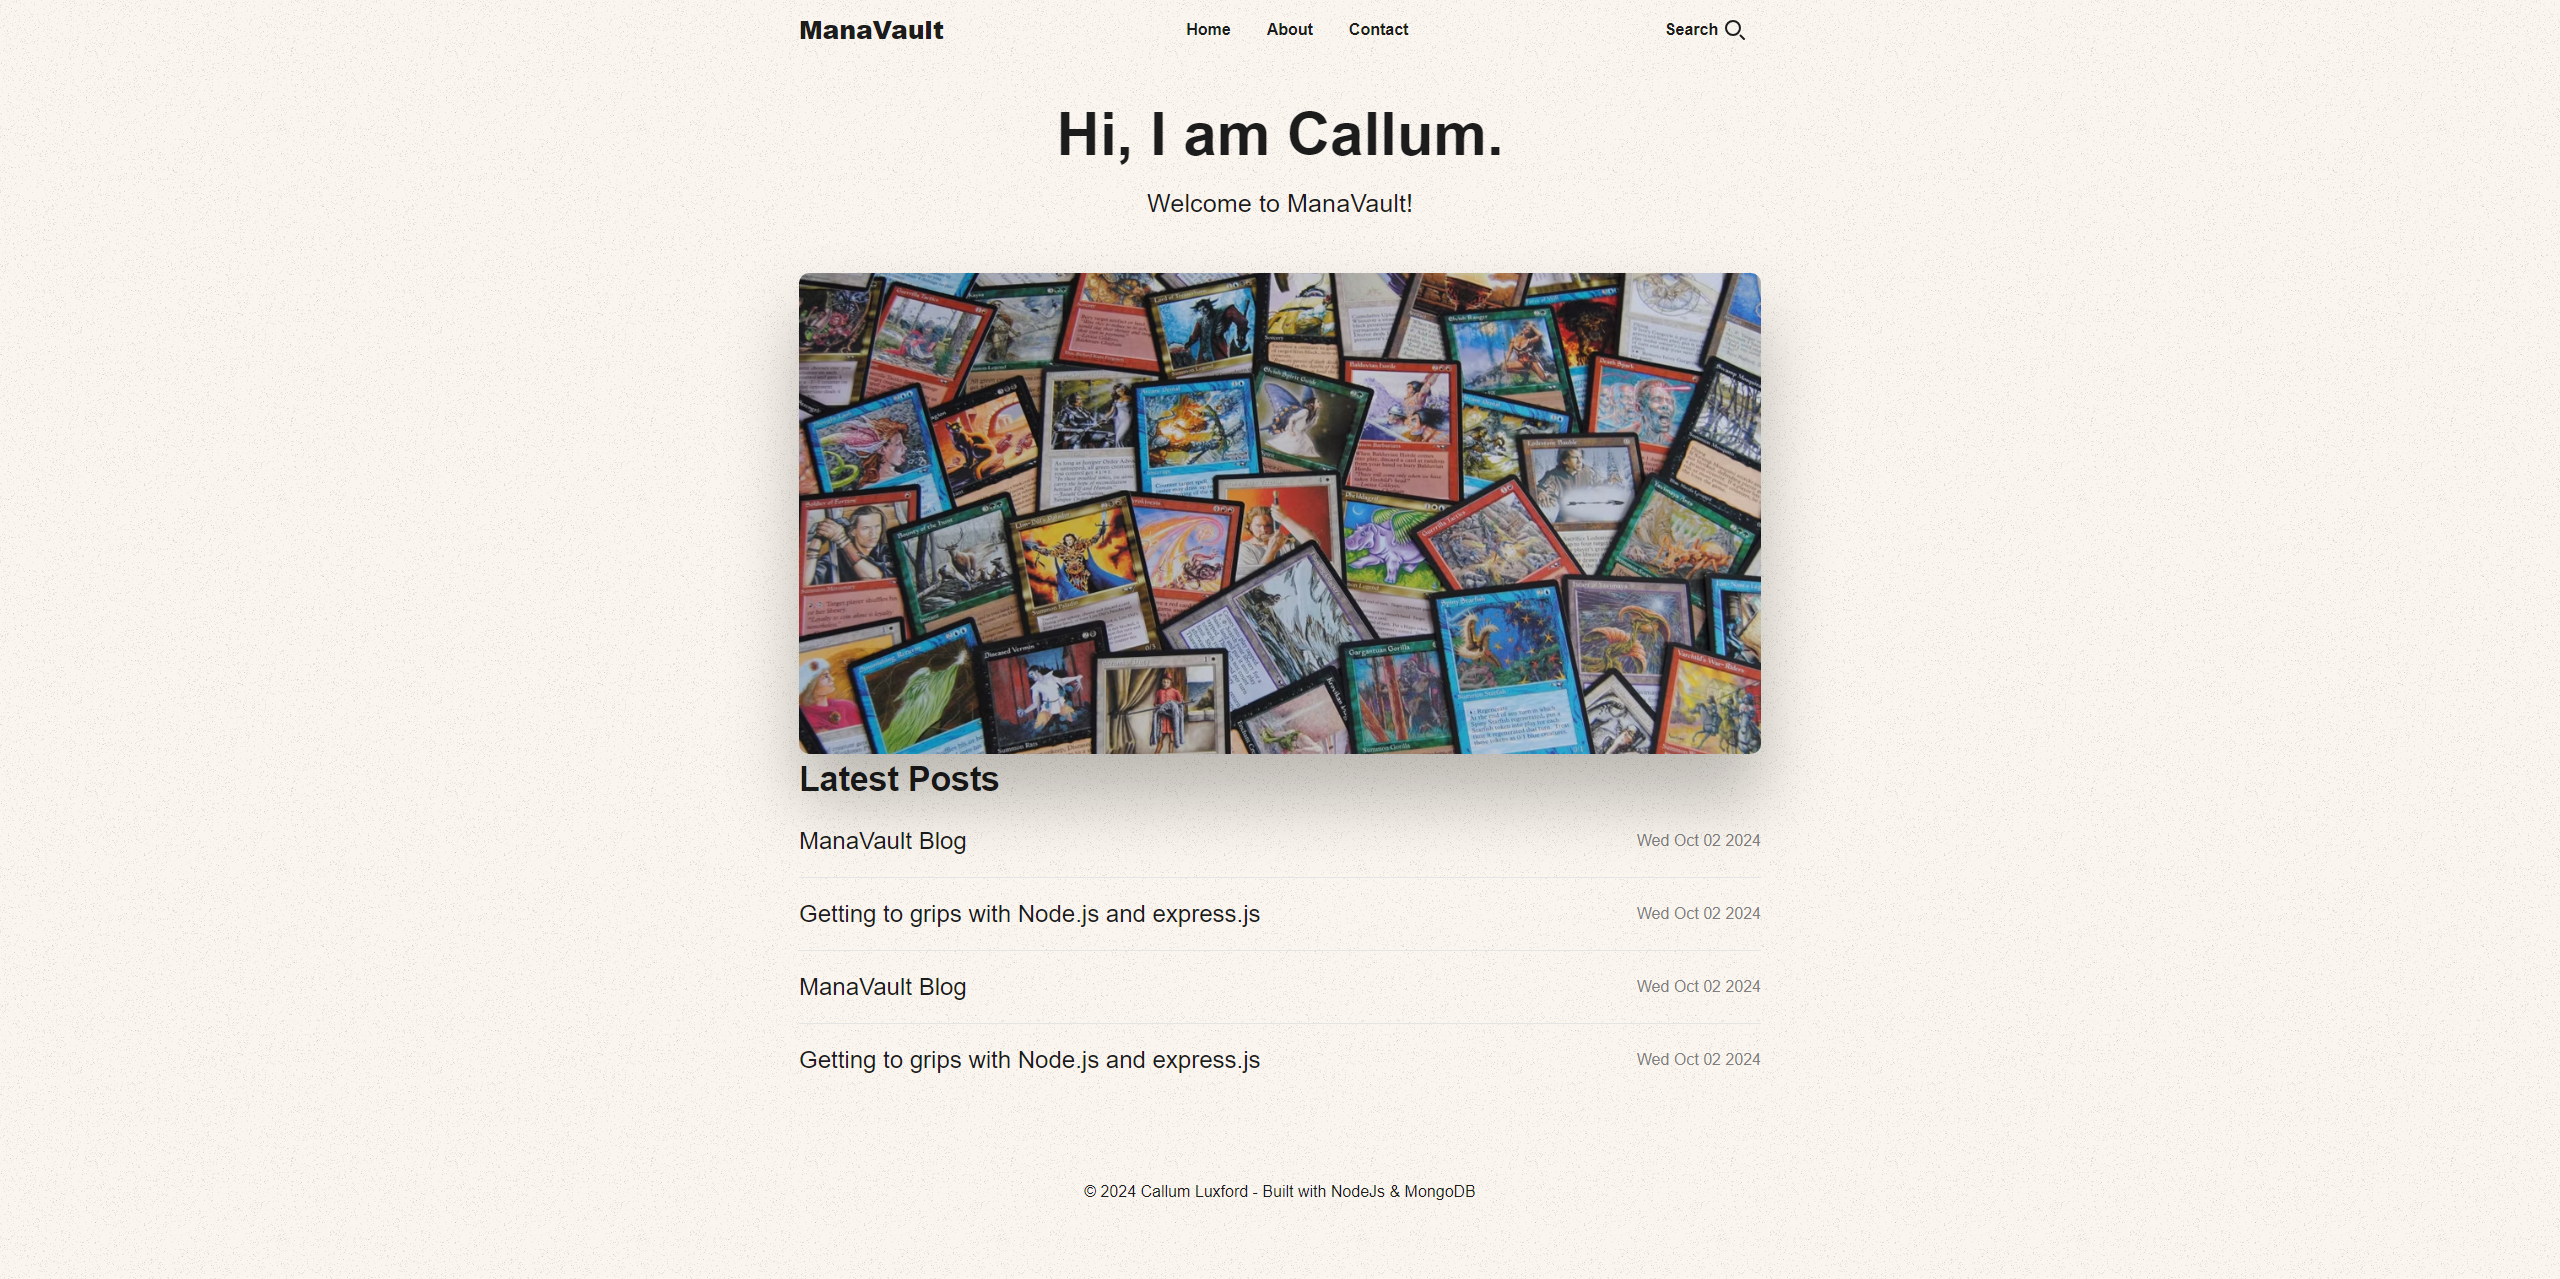
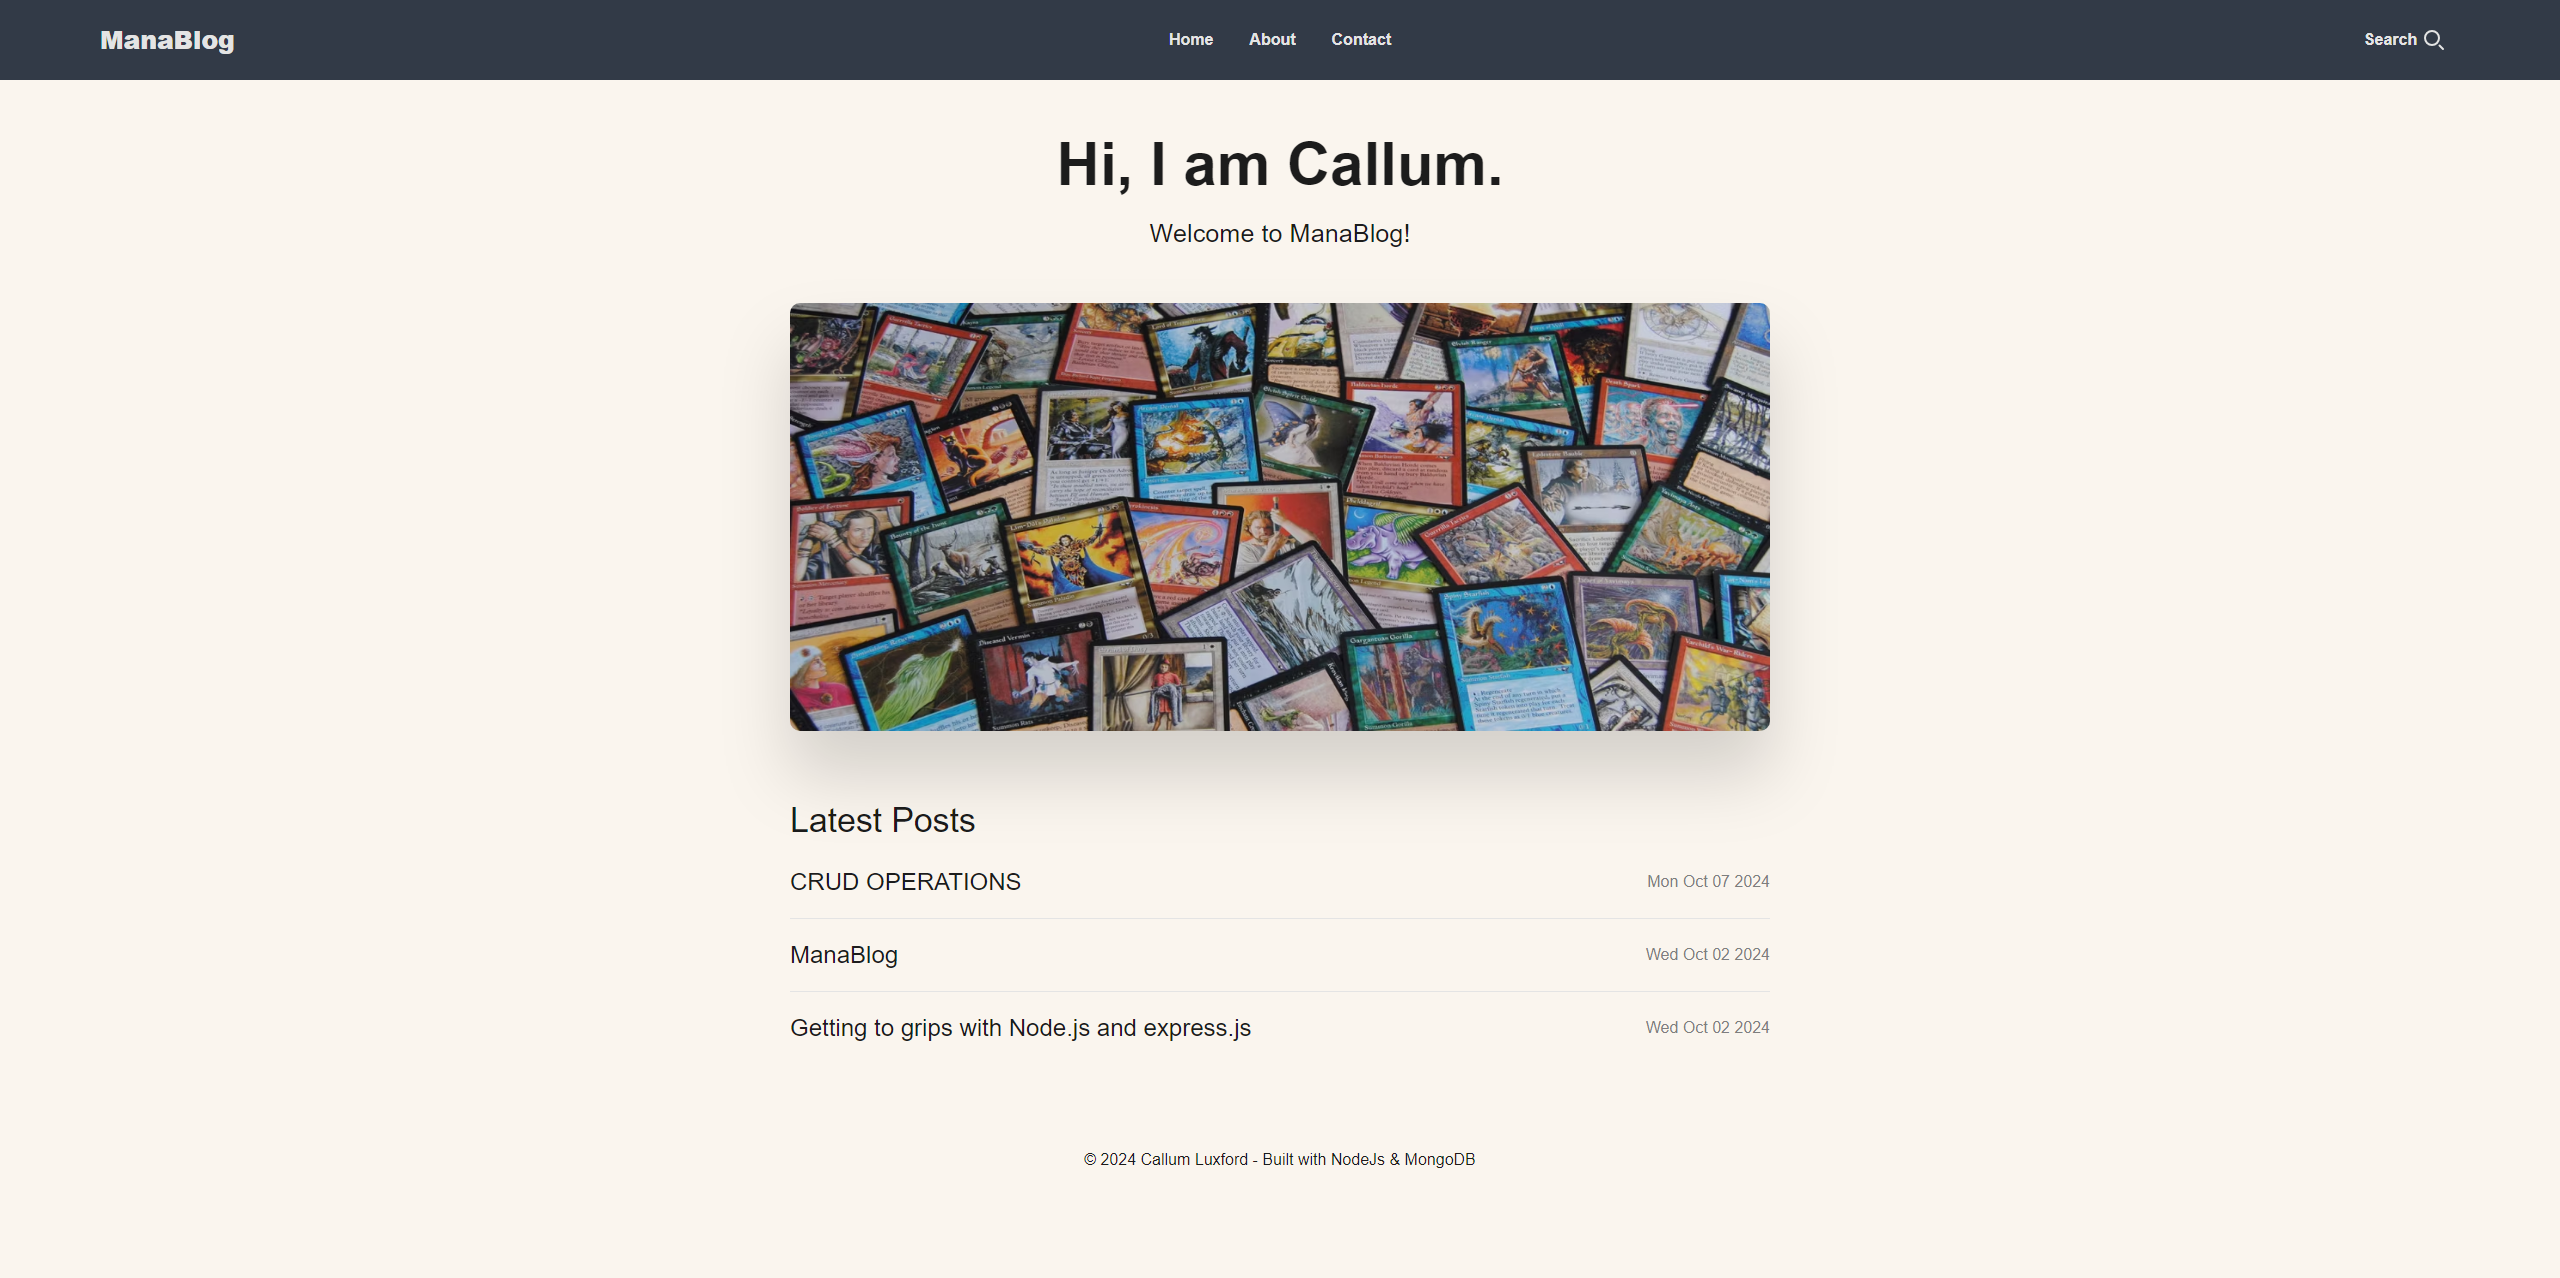
Replaced Project image.

Changed region(s): [[0.0, 0.0, 1.0, 0.8545], [0.4375, 0.885, 0.5625, 0.946]]

diff --git a/index.html b/index.html
@@ -43,8 +43,10 @@
 
                         <div class="header__icons">
                             <ul>
-                                <li><a href="https://github.com/Callum-Luxford" target="_blank"><img src="assets/icons/github.svg" alt=""></a></li>
-                                <li><a href="https://www.linkedin.com/in/callum-luxford-5185872a2/" target="_blank"><img src="assets/icons/linked-in (2).svg" alt=""></a></li>
+                                <li><a href="https://github.com/Callum-Luxford" target="_blank"><img
+                                            src="assets/icons/github.svg" alt=""></a></li>
+                                <li><a href="https://www.linkedin.com/in/callum-luxford-5185872a2/" target="_blank"><img
+                                            src="assets/icons/linked-in (2).svg" alt=""></a></li>
                                 <!-- <li><a href=""><img src="assets/icons/instagram-fill.svg" alt=""></a></li> -->
                             </ul>
                         </div>
@@ -58,23 +60,30 @@
                                 <span>About</span>
                             </div>
                             <div class="about__info" id="about__info">
-                                <p>Hi, I'm <span>Callum Luxford</span>, a passionate <span>Junior Developer</span> eager to join the tech
+                                <p>Hi, I'm <span>Callum Luxford</span>, a passionate <span>Junior Developer</span> eager
+                                    to join the tech
                                     industry. With a solid
-                                    foundation in the fundamentals of <span>Software Development</span> and a keen interest in learning new technologies, I'm always on
+                                    foundation in the fundamentals of <span>Software Development</span> and a keen
+                                    interest in learning new technologies, I'm always on
                                     the
                                     lookout for opportunities to
                                     grow and enhance my skills.</p>
                                 <p>Driven by a
                                     <span>Curiosity</span> to understand how things
-                                    work and a <span>Determination</span> to create solutions for my own personal and career projects.</p>
+                                    work and a <span>Determination</span> to create solutions for my own personal and
+                                    career projects.
+                                </p>
                                 <p>Whether I'm diving into front-end design or tackling back-end challenges, I approach
                                     every project with <span>Enthusiasm</span> and a
                                     commitment to delivering high-quality work. I'm excited to continue building my
                                     career,
                                     collaborating with talented
                                     teams, and contributing to innovative projects.</p>
-                                
-                                <p>I'm currently focusing my efforts on <span>RESTful APIs</span>, and using back-end technologies such as <span>Node.js</span>, <span>Express.js</span>, <span>Axios</span>, <span>MySQL</span>, and <span>MongoDB</span>, <span>Python</span>.</p>
+
+                                <p>I'm currently focusing my efforts on <span>RESTful APIs</span>, and using back-end
+                                    technologies such as <span>Node.js</span>, <span>Express.js</span>,
+                                    <span>Axios</span>, <span>MySQL</span>, and <span>MongoDB</span>,
+                                    <span>Python</span>.</p>
 
                                 <!-- <textarea class="text__area" type="text" name="" id="" cols="30" rows="10"></textarea> -->
                             </div>
@@ -128,7 +137,8 @@
                                             <div class="card__content">
                                                 <h3 class="card__title">Digital Skills Bootcamp<a href=""><img
                                                             src="assets/icons/telegram-plane.svg" alt=""></a></h3>
-                                                <p class="card__info">Software Development | Just IT - Intensive 12-week bootcamp covering fundamentals of Web and Software Development.</p>
+                                                <p class="card__info">Software Development | Just IT - Intensive 12-week
+                                                    bootcamp covering fundamentals of Web and Software Development.</p>
                                                 <ul>
                                                     <li>
                                                         <div>HTML</div>
@@ -156,7 +166,8 @@
                                             <div class="card__content">
                                                 <h3 class="card__title">Software Development Training<a href=""><img
                                                             src="assets/icons/telegram-plane.svg" alt=""></a></h3>
-                                                <p class="card__info">During rehab from a motorcycle accident, I studied daily using courses online to upskill into Software Development.</p>
+                                                <p class="card__info">During rehab from a motorcycle accident, I studied
+                                                    daily using courses online to upskill into Software Development.</p>
                                                 <ul>
                                                     <li>
                                                         <div>UDEMY</div>
@@ -181,7 +192,9 @@
                                             <div class="card__content">
                                                 <h3 class="card__title">Sales/Marketing Account Manager<a href=""><img
                                                             src="assets/icons/telegram-plane.svg" alt=""></a></h3>
-                                                <p class="card__info">Built business-to-business relationships and marketed bespoke software. Managed client data and maintained records.</p>
+                                                <p class="card__info">Built business-to-business relationships and
+                                                    marketed bespoke software. Managed client data and maintained
+                                                    records.</p>
                                                 <ul>
                                                     <li>
                                                         <div>MS Excell</div>
@@ -236,11 +249,13 @@
                                     <div class="card__header">
                                         <img class="card__image" src="assets/images/ManaBlog.png" alt="">
                                     </div>
-                                
+
                                     <div class="card__content">
-                                        <h3 class="card__title">Personal Project<a href="https://manablog.onrender.com/"><img
+                                        <h3 class="card__title">Personal Project<a
+                                                href="https://manablog.onrender.com/"><img
                                                     src="assets/icons/telegram-plane.svg" alt=""></a></h3>
-                                        <p class="card__info">An ongoing project, demonstrating my current ability with RESTful APIs, using Node.js, Express.js and MongoDB.</p>
+                                        <p class="card__info">An ongoing project, demonstrating my current ability with
+                                            RESTful APIs, using Node.js, Express.js and MongoDB.</p>
                                     </div>
                                 </div>
 
@@ -251,7 +266,8 @@
                                     </div>
 
                                     <div class="card__content">
-                                        <h3 class="card__title">Company Website<a href="https://dynamicroofingsolutionsltd.co.uk/"><img
+                                        <h3 class="card__title">Company Website<a
+                                                href="https://dynamicroofingsolutionsltd.co.uk/"><img
                                                     src="assets/icons/telegram-plane.svg" alt=""></a></h3>
                                         <p class="card__info">A Static Company Website built using HTML,
                                             CSS, JavaScript and Google Scripts.</p>
